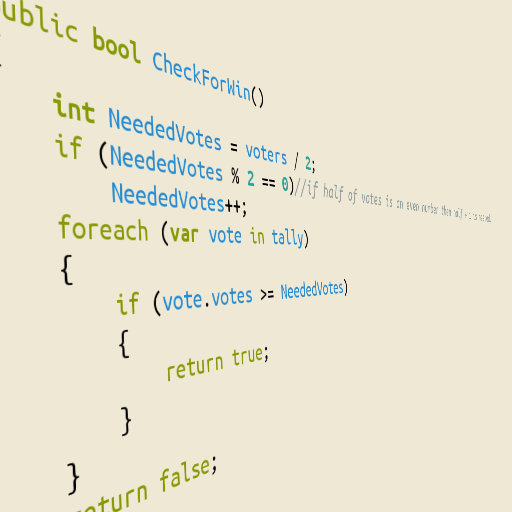
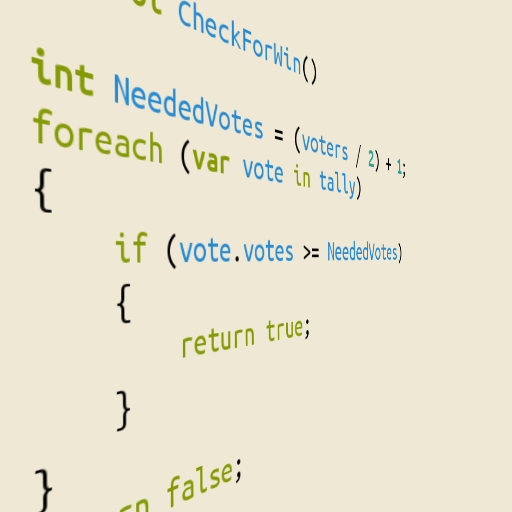
UPdated vote again

diff --git a/GameVote/Helpers/VoteHelper.cs b/GameVote/Helpers/VoteHelper.cs
@@ -84,9 +84,7 @@ namespace GameVote.Helpers
 
         public bool CheckForWin()
         {
-            int NeededVotes = voters / 2;
-            if (NeededVotes % 2 == 0)//if half of votes is an even number then half + 1 is needed. 
-                NeededVotes++;
+            int NeededVotes = (voters / 2) + 1;
             foreach (var vote in tally)
             {
                 if (vote.votes >= NeededVotes)
